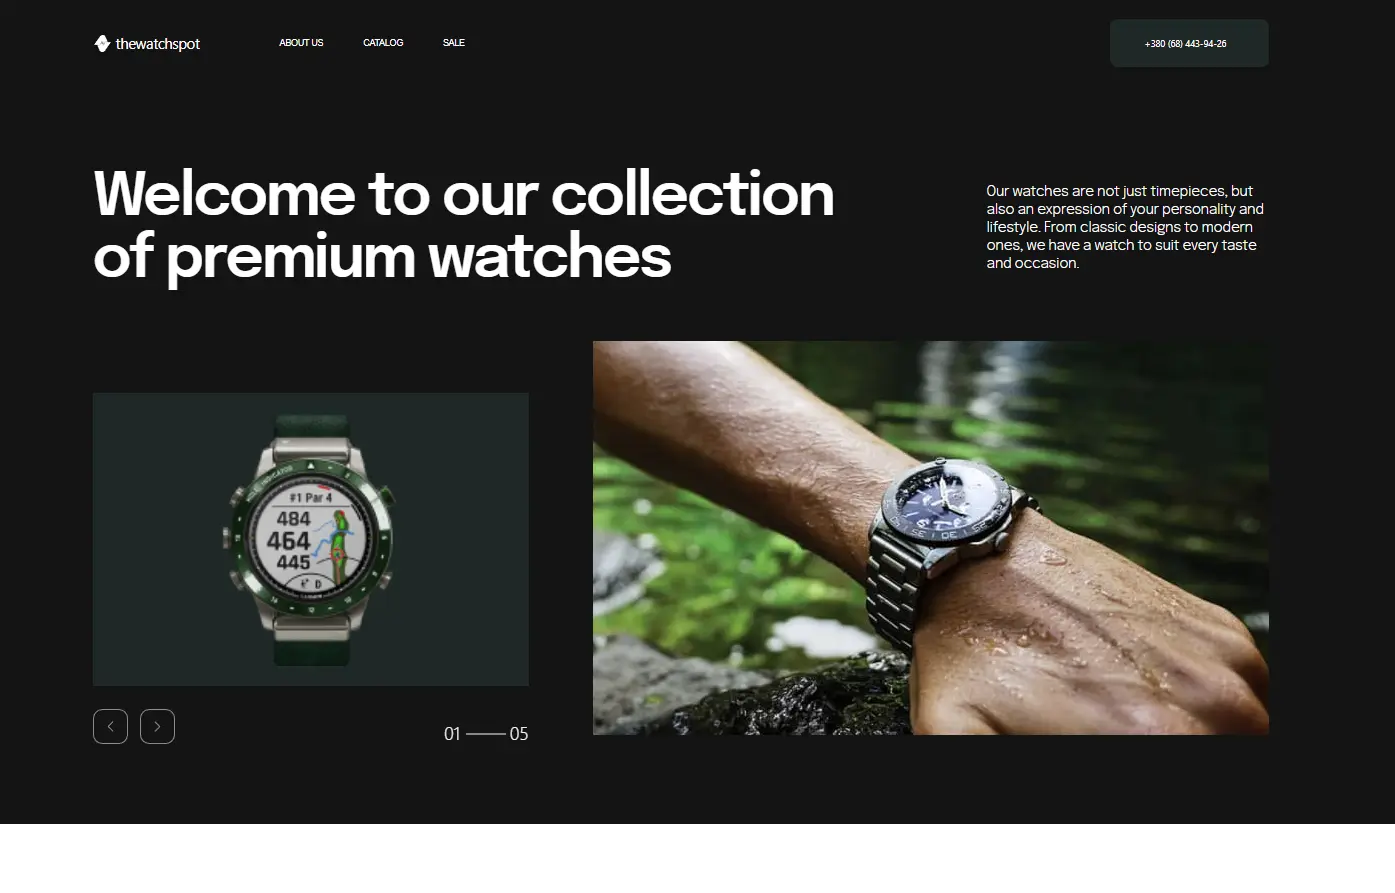
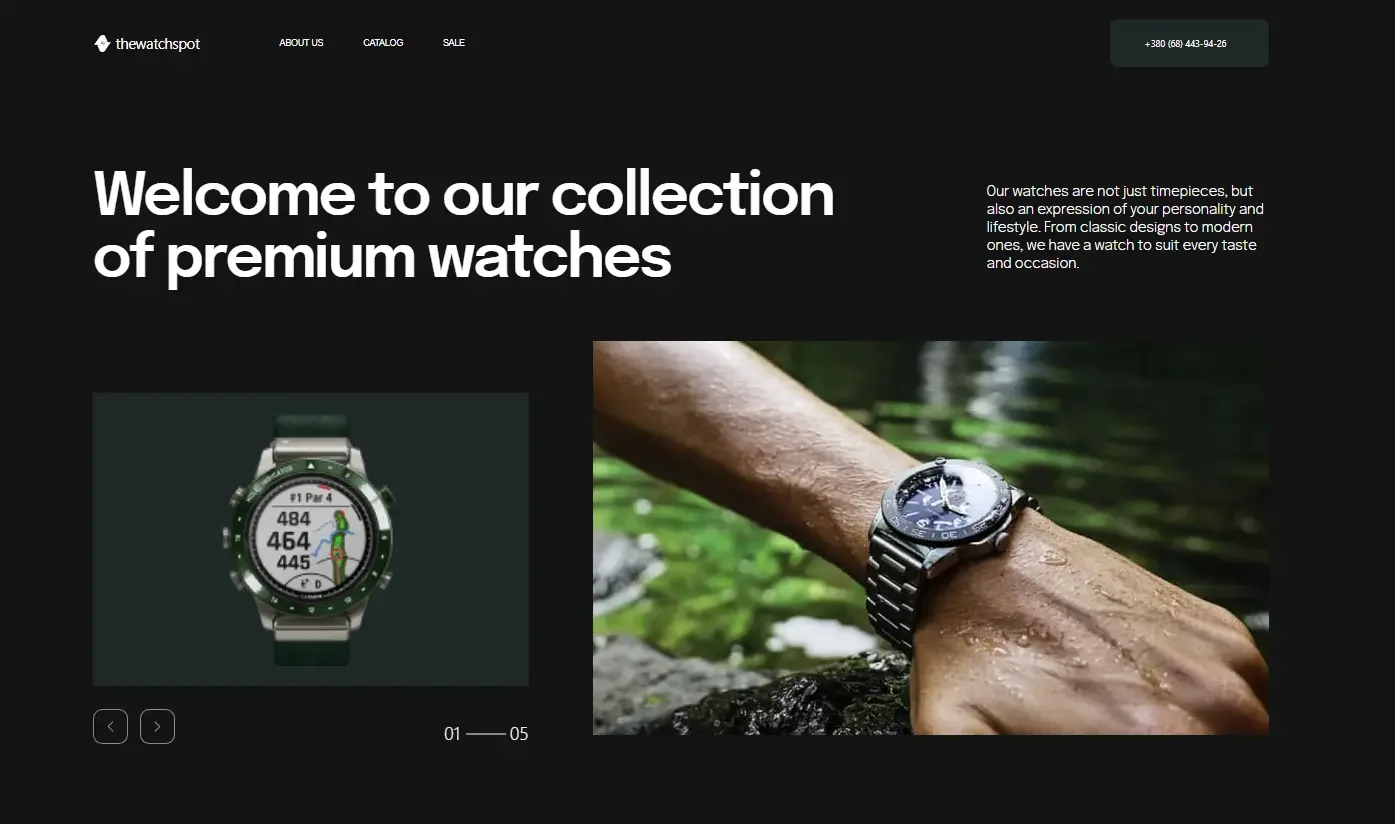
fix(projects): equal-height cards, image sizes, a11y
- card fills its grid cell so cards in a row share one height
- remove the gap between preview and description
- add sizes to project images (640w instead of 1920w at desktop)
- card titles h5 -> h3, filter tags get aria-pressed and focus ring
- shorter stagger, no entrance animation with reduced motion
- crop white strip from watch.webp, drop stray markdown asterisks

diff --git a/src/app/components/ProjectsSection.jsx b/src/app/components/ProjectsSection.jsx
@@ -2,7 +2,7 @@
 import React, { useState, useRef } from "react";
 import ProjectCard from "./ProjectCard";
 import ProjectTag from "./ProjectTag";
-import { motion, useInView } from "framer-motion";
+import { motion, useInView, useReducedMotion } from "framer-motion";
 import { useTranslations } from "next-intl";
 
 
@@ -11,6 +11,7 @@ const ProjectsSection = () => {
   const [tag, setTag] = useState("All");
   const ref = useRef(null);
   const isInView = useInView(ref, { once: true });
+  const reduceMotion = useReducedMotion();
   const t = useTranslations("Projects");
 
 
@@ -209,9 +210,9 @@ const ProjectsSection = () => {
           <motion.li
             key={project.id}
             variants={cardVariants}
-            initial="initial"
-            animate={isInView ? "animate" : "initial"}
-            transition={{ duration: 0.3, delay: index * 0.4 }}
+            initial={reduceMotion ? false : "initial"}
+            animate={isInView || reduceMotion ? "animate" : "initial"}
+            transition={{ duration: 0.3, delay: Math.min(index, 5) * 0.08 }}
           >
             <ProjectCard
               title={project.title}

diff --git a/src/app/components/ProjectCard.jsx b/src/app/components/ProjectCard.jsx
@@ -6,12 +6,13 @@ import { useTranslations } from "next-intl";
 const ProjectCard = ({ imgUrl, title, description, gitUrl, previewUrl }) => {
   const t = useTranslations("Projects");
   return (
-    <div>
-      <div className="h-52 md:h-72 rounded-t-xl relative group overflow-hidden">
+    <div className="h-full flex flex-col">
+      <div className="h-52 md:h-72 shrink-0 rounded-t-xl relative group overflow-hidden">
         <Image
           src={imgUrl}
           alt={title}
           fill
+          sizes="(min-width: 768px) 33vw, 100vw"
           className="object-cover"
         />
 
@@ -32,8 +33,8 @@ const ProjectCard = ({ imgUrl, title, description, gitUrl, previewUrl }) => {
         )}
       </div>
 
-      <div className="text-white rounded-b-xl mt-3 bg-[#181818] py-6 px-4">
-        <h5 className="text-xl font-semibold mb-2">{title}</h5>
+      <div className="flex-1 text-white rounded-b-xl bg-[#181818] py-6 px-4">
+        <h3 className="text-xl font-semibold mb-2">{title}</h3>
         <p className="text-[#ADB7BE]">{description}</p>
       </div>
     </div>

diff --git a/src/app/components/ProjectTag.jsx b/src/app/components/ProjectTag.jsx
@@ -6,7 +6,9 @@ const ProjectTag = ({ name, onClick, isSelected }) => {
     : "text-[#ADB7BE] border-slate-600 hover:border-white";
   return (
     <button
-      className={`${buttonStyles} rounded-full border-2 px-6 py-3 text-xl cursor-pointer`}
+      type="button"
+      aria-pressed={isSelected}
+      className={`${buttonStyles} rounded-full border-2 px-6 py-3 text-xl cursor-pointer focus-visible:outline-none focus-visible:ring-2 focus-visible:ring-primary-500 focus-visible:ring-offset-2 focus-visible:ring-offset-[#121212]`}
       onClick={() => onClick(name)}
     >
       {name}
